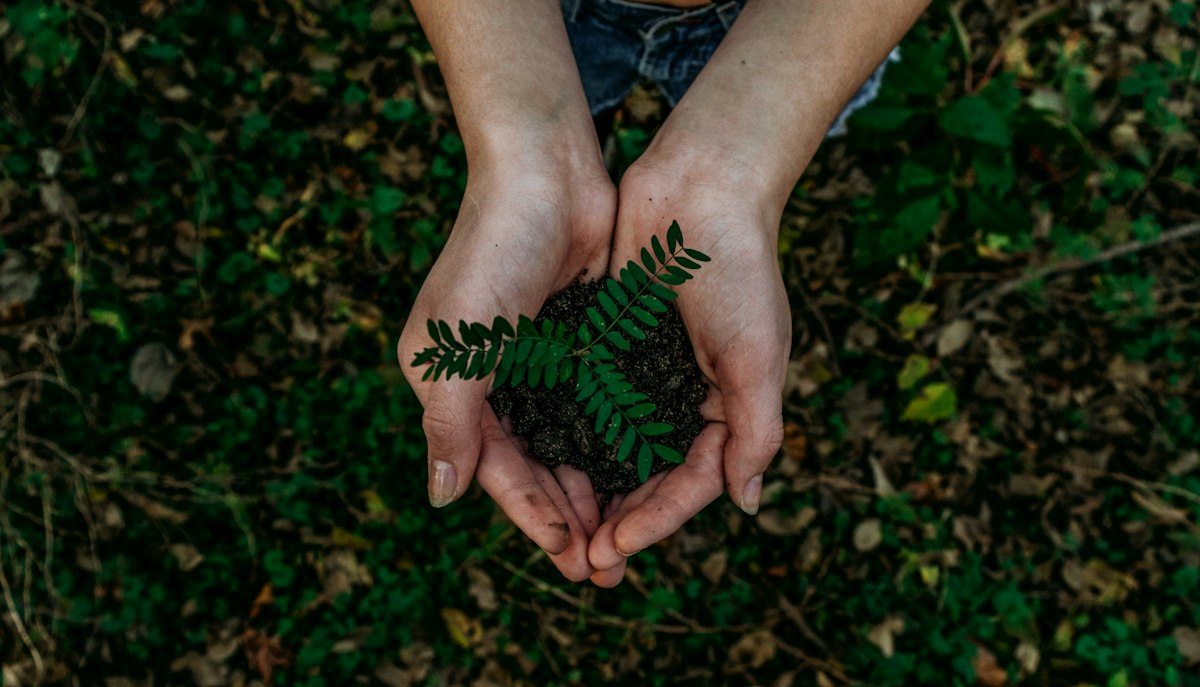
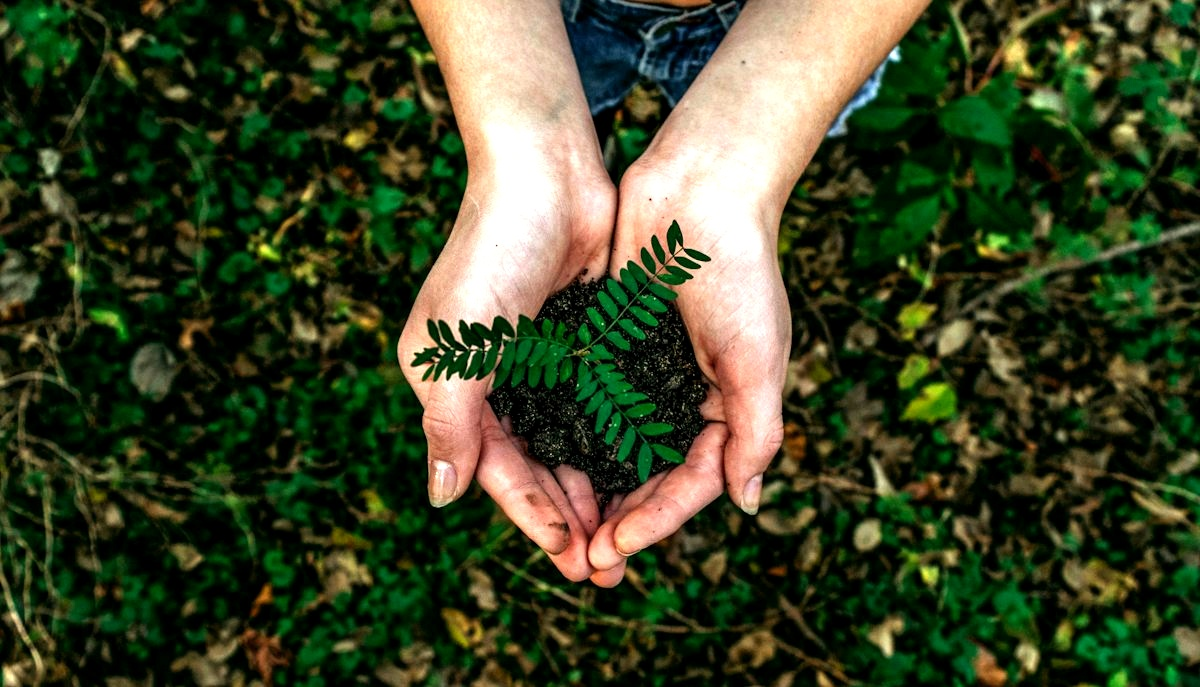
fix: resolve club cards visibility bug, remove opacity zero scrollTrigger, and enhance contrast

diff --git a/src/components/ClubsShowcase.jsx b/src/components/ClubsShowcase.jsx
@@ -143,28 +143,14 @@ export default function ClubsShowcase() {
 
       gsap.from('.clubs-header-reveal', {
         opacity: 0,
-        y: 26,
-        duration: 0.7,
+        y: 20,
+        duration: 0.6,
         ease: 'power3.out',
         scrollTrigger: {
           trigger: containerRef.current,
           start: 'top 85%',
         },
       });
-
-      if (gridRef.current) {
-        gsap.from(gridRef.current.children, {
-          opacity: 0,
-          y: 28,
-          duration: 0.65,
-          stagger: 0.08,
-          ease: 'power3.out',
-          scrollTrigger: {
-            trigger: gridRef.current,
-            start: 'top 82%',
-          },
-        });
-      }
     },
     { scope: containerRef }
   );
@@ -215,11 +201,11 @@ export default function ClubsShowcase() {
         </div>
 
         {/* Rounded Lavender Container Framing the 3x2 Grid */}
-        <div className="bg-lavender/55 border border-lavender-border/90 rounded-2xl sm:rounded-3xl p-6 sm:p-8 lg:p-10 shadow-subtle mb-10 sm:mb-12">
+        <div className="bg-[#EADEEA] border border-lavender-border rounded-2xl sm:rounded-3xl p-5 sm:p-7 lg:p-8 shadow-editorial mb-10 sm:mb-12">
           {/* All Clubs Grid — 3 Above and 3 Below (Compact Size, Full Opacity) */}
           <div
             ref={gridRef}
-            className="grid grid-cols-1 md:grid-cols-2 lg:grid-cols-3 gap-5 sm:gap-6 lg:gap-7"
+            className="grid grid-cols-1 sm:grid-cols-2 lg:grid-cols-3 gap-5 sm:gap-6"
           >
             {CLUBS.map((club, idx) => {
               const isActive = idx === activeIndex;
@@ -230,26 +216,26 @@ export default function ClubsShowcase() {
                   onClick={() => handleSelectClub(idx)}
                   className={`group relative rounded-xl transition-all duration-300 cursor-pointer flex flex-col ${
                     isActive
-                      ? 'ring-2 ring-plum ring-offset-2 ring-offset-lavender shadow-editorial-lg scale-[1.02]'
-                      : 'opacity-100 hover:shadow-editorial hover:-translate-y-1'
+                      ? 'ring-3 ring-plum ring-offset-2 ring-offset-lavender shadow-editorial-lg scale-[1.02]'
+                      : 'ring-1 ring-plum/20 hover:ring-plum/50 hover:shadow-editorial hover:-translate-y-1'
                   }`}
                 >
                   {/* Compact Editorial Image Card */}
-                  <div className="relative aspect-[16/11] sm:aspect-[4/3] rounded-xl overflow-hidden bg-plum-deep border border-lavender-border shadow-sm flex flex-col justify-between p-5 text-white">
+                  <div className="relative aspect-[4/3] rounded-xl overflow-hidden bg-plum-deep border border-white/20 shadow-sm flex flex-col justify-between p-4 sm:p-5 text-white">
                     <img
                       src={club.image}
                       alt={club.fullName}
-                      className="absolute inset-0 w-full h-full object-cover object-center filter saturate-[1.02] contrast-[1.04] transition-transform duration-700 ease-out group-hover:scale-108"
-                      loading="lazy"
+                      className="absolute inset-0 w-full h-full object-cover object-center filter saturate-[1.05] contrast-[1.05] transition-transform duration-700 ease-out group-hover:scale-105"
+                      loading="eager"
                     />
-                    <div className="absolute inset-0 bg-gradient-to-t from-charcoal/95 via-charcoal/55 to-charcoal/30 pointer-events-none" />
+                    <div className="absolute inset-0 bg-gradient-to-t from-black/90 via-black/40 to-transparent pointer-events-none" />
 
                     {/* Top Bar on Card */}
                     <div className="relative z-10 flex items-center justify-between">
-                      <span className="px-2.5 py-0.5 rounded-full text-[10px] font-sans font-semibold uppercase tracking-wider bg-white/95 text-plum backdrop-blur-xs shadow-xs">
+                      <span className="px-2.5 py-1 rounded-full text-[10px] font-sans font-semibold uppercase tracking-wider bg-plum text-white shadow-sm border border-white/10">
                         {club.category}
                       </span>
-                      <span className="w-7 h-7 rounded-full bg-charcoal/70 backdrop-blur-md flex items-center justify-center text-ivory text-xs font-serif font-bold border border-white/20">
+                      <span className="w-7 h-7 rounded-full bg-white/95 text-plum shadow-xs flex items-center justify-center text-xs font-serif font-bold border border-plum/15">
                         0{idx + 1}
                       </span>
                     </div>
@@ -258,14 +244,14 @@ export default function ClubsShowcase() {
                     <div className="relative z-10 space-y-1">
                       <div className="flex items-center gap-1.5">
                         <Icon className="w-3.5 h-3.5 text-lavender" />
-                        <span className="text-[11px] uppercase tracking-wider font-semibold text-lavender">
+                        <span className="text-[11px] uppercase tracking-wider font-semibold text-lavender font-sans">
                           {club.shortName}
                         </span>
                       </div>
-                      <h3 className="font-serif text-lg sm:text-xl font-medium leading-snug text-white">
+                      <h3 className="font-serif text-lg sm:text-xl font-bold leading-snug text-white drop-shadow-sm">
                         {club.fullName}
                       </h3>
-                      <p className="text-xs text-ivory/90 font-sans line-clamp-2 leading-relaxed pt-0.5">
+                      <p className="text-xs text-white/90 font-sans line-clamp-2 leading-relaxed">
                         {club.tagline}
                       </p>
                     </div>
